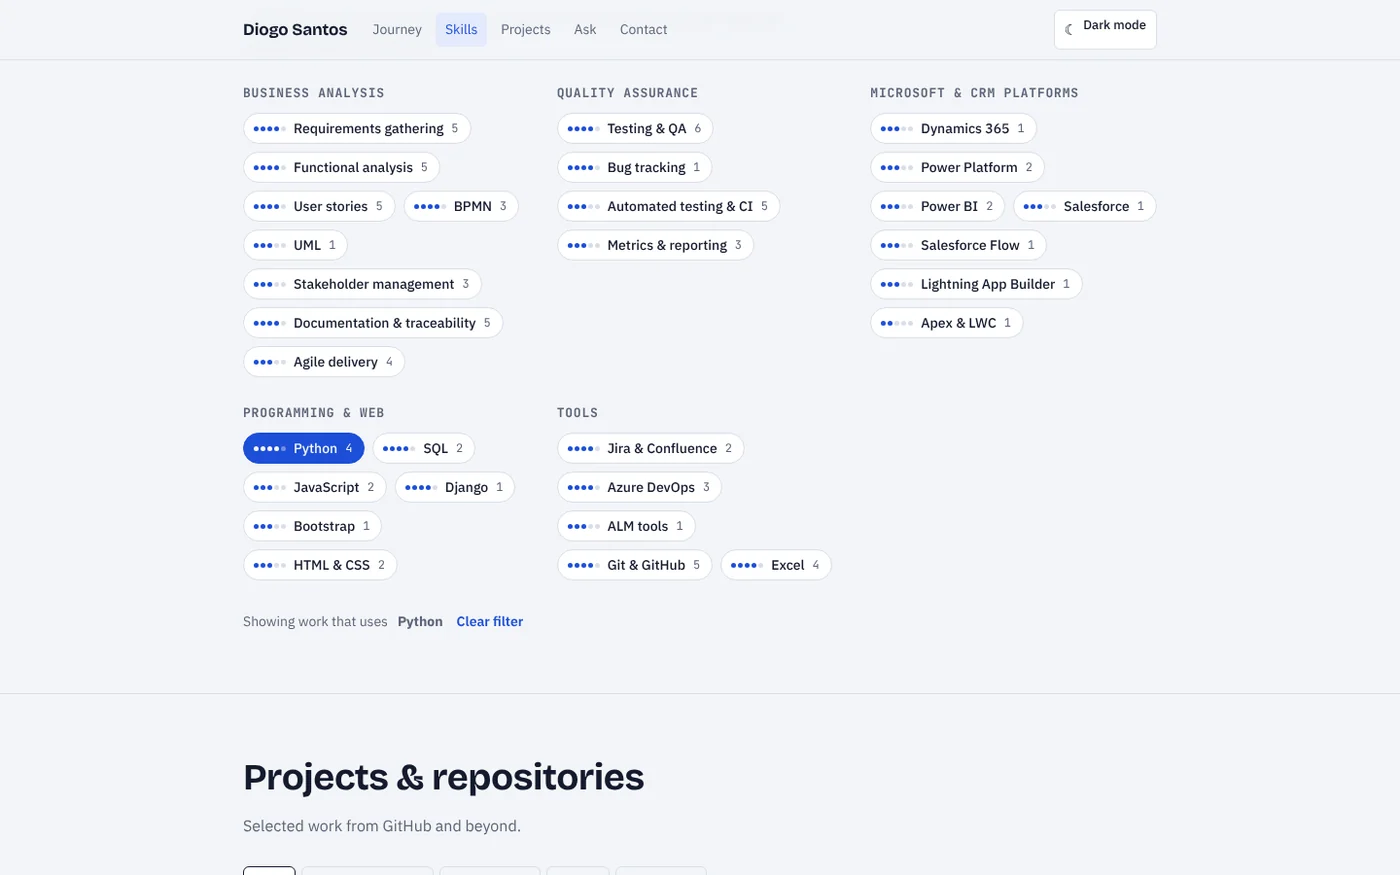
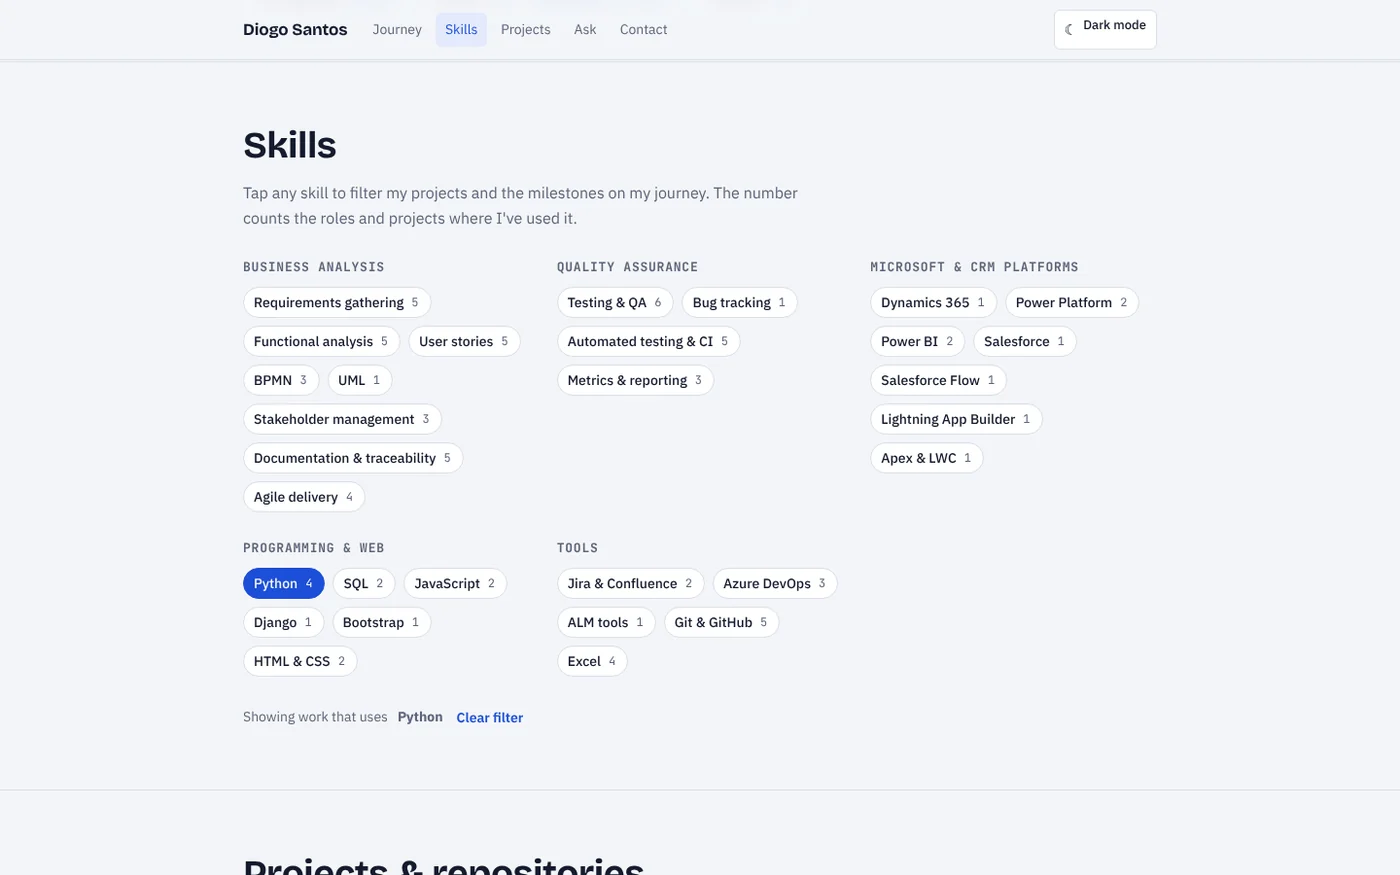
Skills: drop the self-rated level dots, keep the usage counts

diff --git a/assets/js/data.js b/assets/js/data.js
@@ -10,44 +10,44 @@ const CV = {
   askEndpoint: "https://cv-ask.cv-ask-worker.workers.dev/api/ask",
   skills: [
     { group: "Business analysis", items: [
-      { name:"Requirements gathering", level:4 },
-      { name:"Functional analysis", level:4 },
-      { name:"User stories", level:4 },
-      { name:"BPMN", level:4 },
-      { name:"UML", level:3 },
-      { name:"Stakeholder management", level:3 },
-      { name:"Documentation & traceability", level:4 },
-      { name:"Agile delivery", level:3 },
+      { name:"Requirements gathering" },
+      { name:"Functional analysis" },
+      { name:"User stories" },
+      { name:"BPMN" },
+      { name:"UML" },
+      { name:"Stakeholder management" },
+      { name:"Documentation & traceability" },
+      { name:"Agile delivery" },
     ]},
     { group: "Quality assurance", items: [
-      { name:"Testing & QA", level:4 },
-      { name:"Bug tracking", level:4 },
-      { name:"Automated testing & CI", level:3 },
-      { name:"Metrics & reporting", level:3 },
+      { name:"Testing & QA" },
+      { name:"Bug tracking" },
+      { name:"Automated testing & CI" },
+      { name:"Metrics & reporting" },
     ]},
     { group: "Microsoft & CRM platforms", items: [
-      { name:"Dynamics 365", level:3 },
-      { name:"Power Platform", level:3 },
-      { name:"Power BI", level:3 },
-      { name:"Salesforce", level:3 },
-      { name:"Salesforce Flow", level:3 },
-      { name:"Lightning App Builder", level:3 },
-      { name:"Apex & LWC", level:2 },
+      { name:"Dynamics 365" },
+      { name:"Power Platform" },
+      { name:"Power BI" },
+      { name:"Salesforce" },
+      { name:"Salesforce Flow" },
+      { name:"Lightning App Builder" },
+      { name:"Apex & LWC" },
     ]},
     { group: "Programming & web", items: [
-      { name:"Python", level:4 },
-      { name:"SQL", level:4 },
-      { name:"JavaScript", level:3 },
-      { name:"Django", level:4 },
-      { name:"Bootstrap", level:3 },
-      { name:"HTML & CSS", level:3 },
+      { name:"Python" },
+      { name:"SQL" },
+      { name:"JavaScript" },
+      { name:"Django" },
+      { name:"Bootstrap" },
+      { name:"HTML & CSS" },
     ]},
     { group: "Tools", items: [
-      { name:"Jira & Confluence", level:4 },
-      { name:"Azure DevOps", level:4 },
-      { name:"ALM tools", level:3 },
-      { name:"Git & GitHub", level:4 },
-      { name:"Excel", level:4 },
+      { name:"Jira & Confluence" },
+      { name:"Azure DevOps" },
+      { name:"ALM tools" },
+      { name:"Git & GitHub" },
+      { name:"Excel" },
     ]},
   ],
   projects: [
@@ -101,7 +101,7 @@ const CV = {
         {src:"assets/img/shots/cv-hero.webp?v=20261118-3", caption:"Header with intro, links and quick stats"},
         {src:"assets/img/shots/cv-journey.webp?v=20261101-2", caption:"Journey: the rocket reaches Jupiter, my current role as a QA consultant"},
         {src:"assets/img/shots/cv-journey-next.webp?v=20261101-2", caption:"Journey: Saturn, the next mission"},
-        {src:"assets/img/shots/cv-skills.webp?v=20261118-3", caption:"Skills filtered to Python, highlighting matching work"},
+        {src:"assets/img/shots/cv-skills.webp?v=20261123", caption:"Skills filtered to Python, highlighting matching work"},
         {src:"assets/img/shots/cv-projects.webp?v=20261118-2", caption:"Project cards with hover slideshows"},
         {src:"assets/img/shots/cv-gallery.webp?v=20261118-2", caption:"Screenshot gallery with arrows, thumbnails and swipe"},
         {src:"assets/img/shots/cv-projects-dark.webp?v=20261118-2", caption:"Dark theme"},

diff --git a/index.html b/index.html
@@ -20,7 +20,7 @@
 <link rel="preconnect" href="https://fonts.googleapis.com">
 <link rel="preconnect" href="https://fonts.gstatic.com" crossorigin>
 <link rel="stylesheet" href="https://fonts.googleapis.com/css2?family=Bricolage+Grotesque:opsz,wght@12..96,500;12..96,700;12..96,800&family=IBM+Plex+Sans:wght@400;500;600&family=JetBrains+Mono:wght@400;600&display=swap">
-<link rel="stylesheet" href="assets/css/styles.css?v=20261113">
+<link rel="stylesheet" href="assets/css/styles.css?v=20261123">
 </head>
 <body>
 <nav class="nav" aria-label="Sections">
@@ -75,7 +75,7 @@
 
   <section id="skills"><div class="wrap">
     <h2>Skills</h2>
-    <p class="sub">Tap any skill to filter my projects and the milestones on my journey. Dots show proficiency, from 1 (learning) to 5 (use daily); the number counts the roles and projects where I've used it.</p>
+    <p class="sub">Tap any skill to filter my projects and the milestones on my journey. The number counts the roles and projects where I've used it.</p>
     <div class="skillgroups" id="skillgroups"></div>
     <div class="filterbar" id="filterbar" aria-live="polite"></div>
   </div></section>
@@ -122,8 +122,8 @@
   </div>
 </div>
 <footer><div class="wrap">© 2026 Diogo Santos · Business analyst &amp; QA consultant · Lisbon, Portugal</div></footer>
-<script src="assets/js/data.js?v=20261118e"></script>
-<script src="assets/js/app.js?v=20261113b"></script>
-<script src="assets/js/ask.js?v=20261113c"></script>
+<script src="assets/js/data.js?v=20261123"></script>
+<script src="assets/js/app.js?v=20261123"></script>
+<script src="assets/js/ask.js?v=20261123"></script>
 </body>
 </html>

diff --git a/assets/css/styles.css b/assets/css/styles.css
@@ -89,11 +89,6 @@ h2{font-family:var(--display);font-weight:700;font-size:clamp(28px,4vw,38px);let
 .chip{display:inline-flex;align-items:center;gap:8px;border:1px solid var(--line);background:var(--surface);color:var(--ink);border-radius:999px;padding:6px 12px 6px 10px;font:500 14px var(--body);cursor:pointer;transition:background .15s,border-color .15s}
 .chip:hover{border-color:var(--cobalt)}
 .chip[aria-pressed="true"]{background:var(--cobalt);border-color:var(--cobalt);color:var(--bg)}
-.lvl{display:inline-flex;gap:2px}
-.lvl i{width:5px;height:5px;border-radius:50%;background:var(--line)}
-.lvl i.f{background:var(--cobalt)}
-.chip[aria-pressed="true"] .lvl i{background:color-mix(in srgb,var(--bg) 40%,transparent)}
-.chip[aria-pressed="true"] .lvl i.f{background:var(--bg)}
 .chip .n{font:400 12px var(--mono);color:var(--muted)}
 .chip[aria-pressed="true"] .n{color:var(--bg)}
 .filterbar{display:flex;flex-wrap:wrap;align-items:center;gap:10px;margin-top:24px;min-height:36px;font-size:14px;color:var(--muted)}

diff --git a/assets/js/app.js b/assets/js/app.js
@@ -32,7 +32,6 @@ function renderSkills(){
   $("#skillgroups").innerHTML = CV.skills.map(g => `
     <div class="sg"><h3>${esc(g.group)}</h3><div class="chips">
       ${g.items.map(s => `<button type="button" class="chip" data-skill="${esc(s.name)}" aria-pressed="${active.has(s.name)}" title="${s.placeholder?'Placeholder: confirm or replace':''}">
-        <span class="lvl" aria-label="Level ${s.level} of 5">${[1,2,3,4,5].map(i=>`<i class="${i<=s.level?'f':''}"></i>`).join("")}</span>
         ${esc(s.name)}${s.placeholder?' *':''}<span class="n">${usage[s.name]||0}</span></button>`).join("")}
     </div></div>`).join("");
   const any = CV.skills.some(g=>g.items.some(s=>s.placeholder));

diff --git a/assets/js/ask.js b/assets/js/ask.js
@@ -65,7 +65,7 @@
     },
     cat(arg){
       if (slug(arg || "") !== "skills") return print(`Try <b>cat skills</b>.`, "err");
-      print(CV.skills.map(g => `<b>${esc(g.group)}</b>\n  ${g.items.map(s => `${esc(s.name)} ${"●".repeat(s.level)}${"○".repeat(5 - s.level)}`).join("\n  ")}`).join("\n"));
+      print(CV.skills.map(g => `<b>${esc(g.group)}</b>\n  ${g.items.map(s => esc(s.name)).join("\n  ")}`).join("\n"));
     },
     contact(){
       print(CV.contact.map(c => `${esc(c.label.padEnd(10))} ${c.href ? `<a href="${esc(c.href)}" target="_blank" rel="noopener">${esc(c.value)}</a>` : esc(c.value)}`).join("\n"));

diff --git a/worker/src/knowledge.js b/worker/src/knowledge.js
@@ -21,9 +21,9 @@ function cvText() {
     if (m.skills?.length) out += `  Skills used in this role: ${m.skills.join(", ")}\n`;
   }
 
-  out += "\n## Skills (level 1 = learning, 5 = uses daily)\n";
+  out += "\n## Skills\n";
   for (const g of CV.skills) {
-    out += `- ${g.group}: ${g.items.map(s => `${s.name} (${s.level})`).join(", ")}\n`;
+    out += `- ${g.group}: ${g.items.map(s => s.name).join(", ")}\n`;
   }
 
   // Worked out from the data, not left to the model: small models tend to merge similar

diff --git a/README.md b/README.md
@@ -67,7 +67,7 @@ Almost every change happens in `assets/js/data.js`:
 - **New project**: add it to the top of `projects`, which runs newest release first. Give it `demo:"<url>"` to show a Live demo link next to View repo. Projects aren't stops on the journey, which is kept for education and work.
 - **Releases**: a project shipped in versions (like Houston) gets a `releases` list instead of `shots`, newest first. Each release has a `version`, `name`, `date`, `url`, `summary`, `notes` and its own `shots`. The card and gallery open on the latest release, or on the one named in `featured` (for example `featured:"v1.0"`), and the gallery lets visitors switch between releases.
 - **Screenshots**: save them as WebP in `assets/img/shots/` (about 1400px wide is plenty) and list them under the project's `shots`.
-- **Skills**: add them to a group in `skills`, with a level from 1 to 5. Use the same name in a project's or milestone's `skills` so the filter finds it.
+- **Skills**: add them to a group in `skills`. Use the same name in a project's or milestone's `skills` so the filter finds it.
 
 The last stop is always the open “Next mission: your team?” card, on the next planet out (Saturn today). Each new milestone goes just before it, so the next mission moves one planet further. The route runs Mercury to Neptune, then Pluto, Haumea, Makemake, Eris and Sedna, and interstellar space only appears once the journey has passed Neptune.
 
